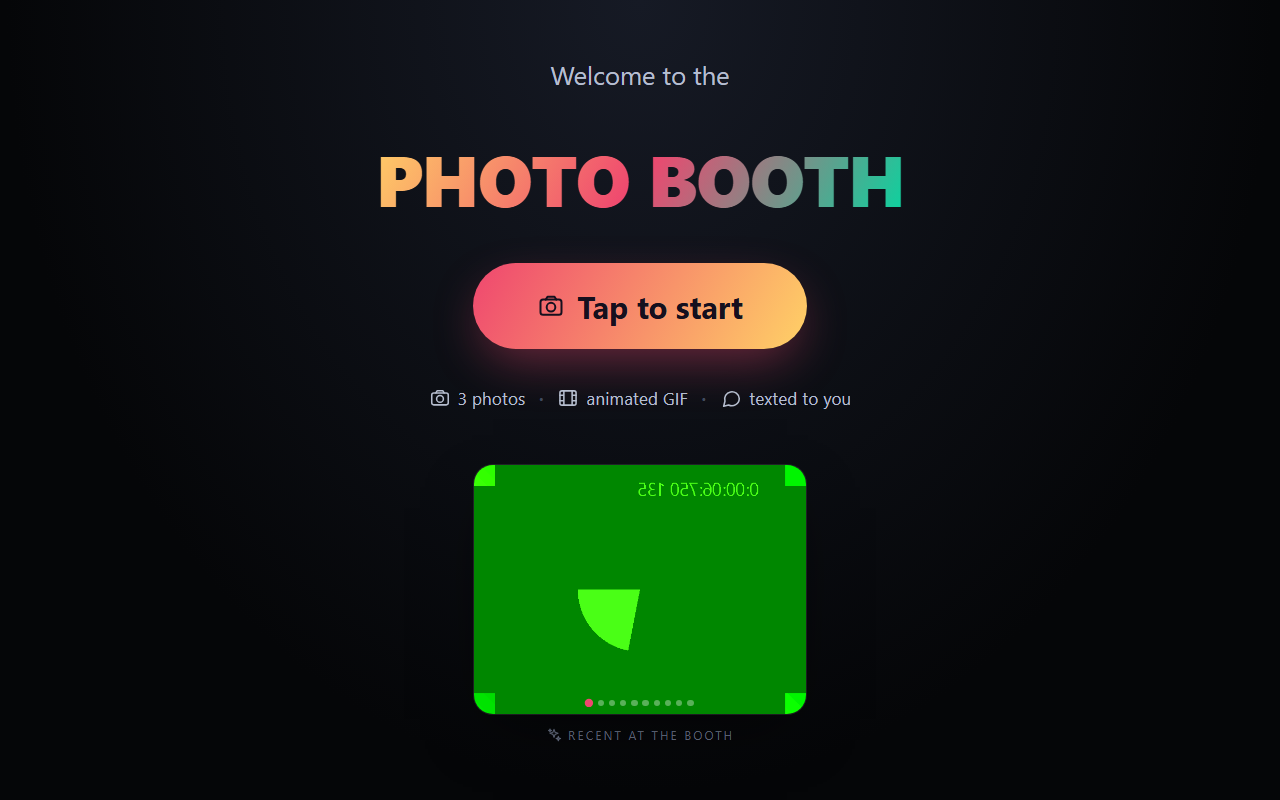
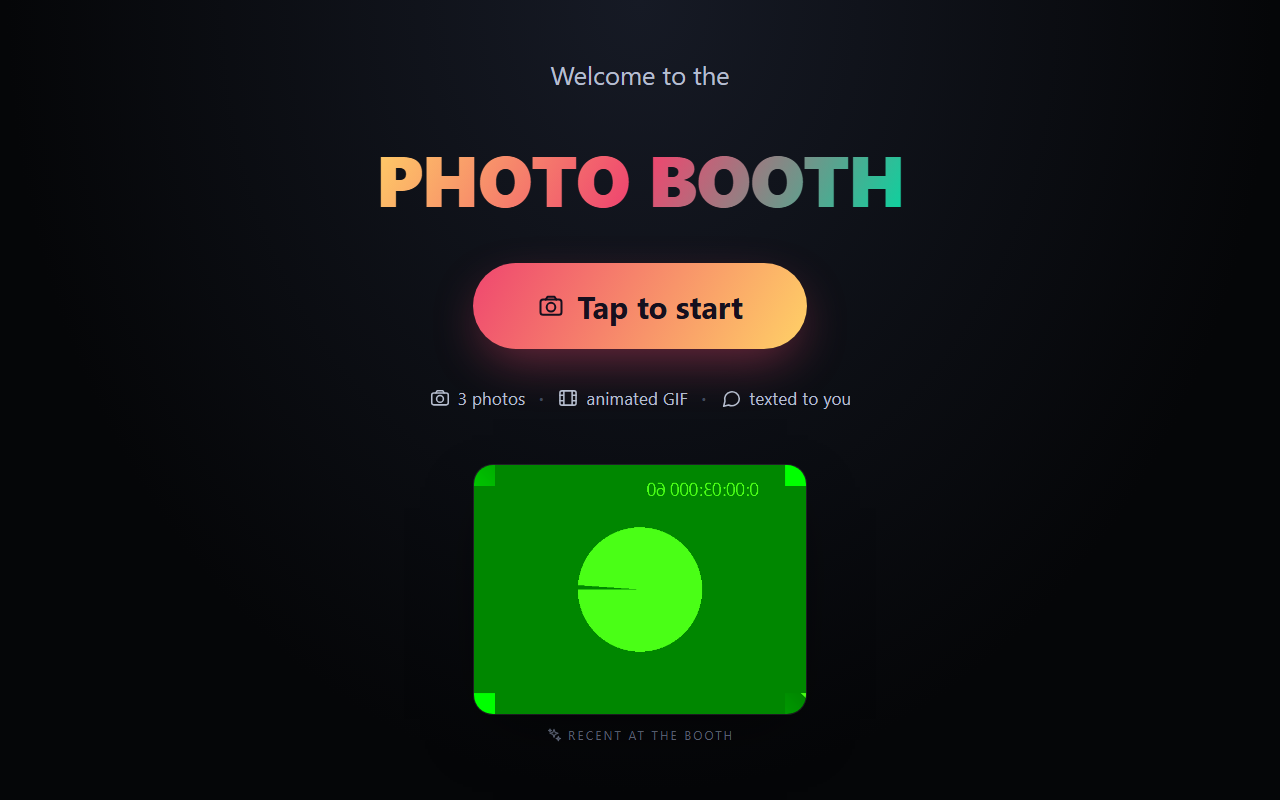
fix: stop strobing gallery + slow GIF playback to original ~3 fps
Two related issues from PR #4 review:

1. Idle gallery was rotating animated GIFs every 4.5s with hard cuts — a
   seizure risk on a public kiosk.
2. GIF playback was ~10x faster than the original photo booth.

Root cause for the speed bug: gifenc's writeFrame({ delay }) accepts
delay in **milliseconds** and divides by 10 internally to write
centiseconds into the GCE. Our encoder was pre-dividing by 10, so a
333 ms target produced 33 ms / frame (~33 fps) instead of the intended
333 ms / frame (~3 fps). With the fix, decoding shows the GCE delay
back at 33 cs = 330 ms / frame, matching the original ImageSharp-based
behavior.

Strobe fix:
- Functions stitchGif now also encodes frame[0] as a static PNG and
  uploads it as <captureId>-thumb.png alongside the GIF (best-effort;
  GIF/SMS path unaffected on thumbnail upload failure).
- thumbnailUrl threaded end-to-end: stitchGif -> /api/internal/status
  -> CaptureEntity -> /api/gallery -> Angular GalleryItemDto.
- Idle carousel now displays static PNG thumbnails instead of GIFs,
  rotates every 7s with a 700ms keyframe crossfade, respects
  prefers-reduced-motion (rotation disabled, animations cancelled),
  and filters out legacy items that lack a thumbnail.

diff --git a/apps/web/src/app/features/idle/idle.page.ts b/apps/web/src/app/features/idle/idle.page.ts
@@ -17,7 +17,10 @@ import { IconComponent } from '../../core/icons/icon.component';
 import { BoothStore } from '../../core/state/booth.store';
 
 const GALLERY_REFRESH_MS = 30_000;
-const GALLERY_ROTATE_MS = 4_500;
+// Slow rotation: 7s feels gallery-pace rather than slideshow-pace, and pairs
+// well with a half-second crossfade so transitions are imperceptible. Photo-
+// sensitive guests can also opt out via OS-level `prefers-reduced-motion`.
+const GALLERY_ROTATE_MS = 7_000;
 
 @Component({
     selector: 'pb-idle',
@@ -50,14 +53,16 @@ const GALLERY_ROTATE_MS = 4_500;
                     <div class="gallery-card">
                         <a [href]="currentLanding()" target="_blank" rel="noopener" class="gallery-link" aria-label="Open recent capture">
                             <img class="gallery-img"
-                                 [src]="currentShare()"
+                                 [src]="currentThumb()"
                                  [attr.alt]="'recent capture ' + (galleryIndex() + 1)" />
                         </a>
-                        <div class="gallery-pips">
-                            @for (item of gallery(); track item.captureId; let i = $index) {
-                                <span class="pip" [class.active]="i === galleryIndex()"></span>
-                            }
-                        </div>
+                        @if (gallery().length > 1) {
+                            <div class="gallery-pips">
+                                @for (item of gallery(); track item.captureId; let i = $index) {
+                                    <span class="pip" [class.active]="i === galleryIndex()"></span>
+                                }
+                            </div>
+                        }
                     </div>
                     <p class="gallery-caption">
                         <pb-icon name="sparkles" [size]="16" />
@@ -120,7 +125,9 @@ const GALLERY_ROTATE_MS = 4_500;
             width: clamp(14rem, 26vw, 22rem);
             aspect-ratio: 4 / 3;
             object-fit: cover;
-            transition: opacity 0.4s ease;
+            /* Half-second opacity crossfade between captures so the rotation
+               isn't a hard cut. */
+            animation: gallery-fade 700ms ease-out;
         }
         .gallery-pips {
             position: absolute;
@@ -151,9 +158,18 @@ const GALLERY_ROTATE_MS = 4_500;
             letter-spacing: 0.18em;
             font-size: 0.75rem;
         }
+        @keyframes gallery-fade {
+            from { opacity: 0; }
+            to   { opacity: 1; }
+        }
         @keyframes pulse {
             0%, 100% { transform: scale(1); box-shadow: 0 18px 50px -10px rgba(239,71,111,0.45); }
             50% { transform: scale(1.04); box-shadow: 0 28px 60px -10px rgba(239,71,111,0.6); }
+        }
+        @media (prefers-reduced-motion: reduce) {
+            .tap-btn { animation: none; }
+            .gallery-img { animation: none; }
+            .pip { transition: none; }
         }
     `],
     changeDetection: ChangeDetectionStrategy.OnPush
@@ -169,11 +185,26 @@ export class IdlePage implements OnInit, OnDestroy {
     protected readonly gallery = signal<GalleryItemDto[]>([]);
     protected readonly galleryIndex = signal(0);
 
-    protected readonly currentShare = computed(() => this.gallery()[this.galleryIndex()]?.shareUrl ?? '');
+    /**
+     * Show the static PNG thumbnail of the first frame, never the animated GIF.
+     * A carousel of looping GIFs is a strobe risk on a public kiosk; falling
+     * back to `shareUrl` here is intentional only for legacy captures stitched
+     * before thumbnails were introduced — those are filtered out below in
+     * `refreshGallery` so they never reach this code path.
+     */
+    protected readonly currentThumb = computed(
+        () => this.gallery()[this.galleryIndex()]?.thumbnailUrl
+              ?? this.gallery()[this.galleryIndex()]?.shareUrl
+              ?? ''
+    );
     protected readonly currentLanding = computed(() => this.gallery()[this.galleryIndex()]?.landingUrl ?? '');
 
     private rotateHandle?: ReturnType<typeof setInterval>;
     private refreshHandle?: ReturnType<typeof setInterval>;
+    private readonly prefersReducedMotion =
+        typeof window !== 'undefined'
+        && typeof window.matchMedia === 'function'
+        && window.matchMedia('(prefers-reduced-motion: reduce)').matches;
 
     ngOnInit(): void {
         this.store.reset();
@@ -196,10 +227,14 @@ export class IdlePage implements OnInit, OnDestroy {
 
         this.refreshGallery();
         this.refreshHandle = setInterval(() => this.refreshGallery(), GALLERY_REFRESH_MS);
-        this.rotateHandle = setInterval(() => {
-            const total = this.gallery().length;
-            if (total > 1) this.galleryIndex.update(i => (i + 1) % total);
-        }, GALLERY_ROTATE_MS);
+        // Honor `prefers-reduced-motion` — show the most-recent capture as a
+        // single static still and never advance the carousel for that visitor.
+        if (!this.prefersReducedMotion) {
+            this.rotateHandle = setInterval(() => {
+                const total = this.gallery().length;
+                if (total > 1) this.galleryIndex.update(i => (i + 1) % total);
+            }, GALLERY_ROTATE_MS);
+        }
     }
 
     ngOnDestroy(): void {
@@ -223,7 +258,10 @@ export class IdlePage implements OnInit, OnDestroy {
             .pipe(takeUntilDestroyed(this.destroyRef))
             .subscribe({
                 next: response => {
-                    const items = response.items ?? [];
+                    // Only show captures that have a static PNG thumbnail.
+                    // Legacy captures (pre-thumbnail) are silently skipped to
+                    // avoid playing animated GIFs in a rotating carousel.
+                    const items = (response.items ?? []).filter(i => !!i.thumbnailUrl);
                     this.gallery.set(items);
                     if (this.galleryIndex() >= items.length) {
                         this.galleryIndex.set(0);

diff --git a/apps/functions/src/functions/stitchGif.ts b/apps/functions/src/functions/stitchGif.ts
@@ -1,6 +1,6 @@
 import { app, InvocationContext } from "@azure/functions";
 import { BlobServiceClient } from "@azure/storage-blob";
-import { decodePng, encodeAnimatedGif, DecodedFrame } from "../gif/encoder.js";
+import { decodePng, encodePng, encodeAnimatedGif, DecodedFrame } from "../gif/encoder.js";
 import { postStatus } from "../api/statusClient.js";
 
 interface StitchMessage {
@@ -39,10 +39,18 @@ app.storageQueue("stitchGif", {
 
             // Idempotency: if the share GIF already exists, skip stitch and just postback.
             const shareBlob = share.getBlockBlobClient(`${captureId}.gif`);
+            const thumbBlob = share.getBlockBlobClient(`${captureId}-thumb.png`);
             if (await shareBlob.exists()) {
                 const shareUrl = shareBlob.url;
+                const thumbnailUrl = (await thumbBlob.exists()) ? thumbBlob.url : undefined;
                 context.log(`stitchGif: ${captureId} already stitched at ${shareUrl}, skipping`);
-                await postStatus({ captureId, state: "uploaded", shareUrl, landingUrl: landingUrlFor(captureId) }, context);
+                await postStatus({
+                    captureId,
+                    state: "uploaded",
+                    shareUrl,
+                    thumbnailUrl,
+                    landingUrl: landingUrlFor(captureId),
+                }, context);
                 return;
             }
 
@@ -63,9 +71,29 @@ app.storageQueue("stitchGif", {
                 blobHTTPHeaders: { blobContentType: "image/gif" },
             });
 
+            // Static thumbnail = first frame as a PNG. The idle-screen gallery
+            // shows these (instead of the animated GIFs) so a rotating carousel
+            // of captures isn't a strobe risk.
+            let thumbnailUrl: string | undefined;
+            try {
+                const thumbBytes = encodePng(frames[0]);
+                await thumbBlob.uploadData(thumbBytes, {
+                    blobHTTPHeaders: { blobContentType: "image/png" },
+                });
+                thumbnailUrl = thumbBlob.url;
+            } catch (thumbErr) {
+                context.warn(`stitchGif: thumbnail upload failed for ${captureId}`, thumbErr);
+            }
+
             const shareUrl = shareBlob.url;
             context.log(`stitchGif: uploaded ${shareUrl}`);
-            await postStatus({ captureId, state: "uploaded", shareUrl, landingUrl: landingUrlFor(captureId) }, context);
+            await postStatus({
+                captureId,
+                state: "uploaded",
+                shareUrl,
+                thumbnailUrl,
+                landingUrl: landingUrlFor(captureId),
+            }, context);
 
             // Best-effort cleanup of raw frames now that the share GIF is durable.
             for await (const blob of raw.listBlobsFlat({ prefix: `${captureId}/` })) {

diff --git a/apps/functions/src/gif/encoder.ts b/apps/functions/src/gif/encoder.ts
@@ -17,8 +17,25 @@ export function decodePng(buffer: Buffer): DecodedFrame {
 }
 
 /**
+ * Re-encodes an in-memory RGBA frame as a PNG buffer. Used to generate the
+ * static gallery thumbnail (a snapshot of the first capture frame) so the
+ * idle-screen carousel doesn't have to play animated GIFs.
+ */
+export function encodePng(frame: DecodedFrame): Buffer {
+    const png = new PNG({ width: frame.width, height: frame.height });
+    png.data = Buffer.from(frame.rgba.buffer, frame.rgba.byteOffset, frame.rgba.byteLength);
+    return PNG.sync.write(png);
+}
+
+/**
  * Stitches a list of RGBA frames into an animated GIF.
- * frameDelayMs is converted to GIF's centiseconds (×0.1).
+ *
+ * `frameDelayMs` is the human-readable per-frame delay. `gifenc` accepts
+ * milliseconds directly and converts to GIF's native 1/100-second units
+ * internally, so we pass `frameDelayMs` through unchanged. (We previously
+ * divided by 10 here, which double-converted the value and produced a GIF
+ * that played 10× too fast — closer to a strobe than a photo-booth
+ * stop-motion.)
  */
 export function encodeAnimatedGif(frames: DecodedFrame[], frameDelayMs: number): Uint8Array {
     if (frames.length === 0) {
@@ -33,7 +50,9 @@ export function encodeAnimatedGif(frames: DecodedFrame[], frameDelayMs: number):
     }
 
     const gif = GIFEncoder();
-    const delay = Math.max(2, Math.round(frameDelayMs / 10)); // GIF delay is in centiseconds
+    // gifenc expects ms; minimum 20ms (≈50fps cap) keeps malformed callers
+    // from producing unreadably-fast GIFs.
+    const delay = Math.max(20, Math.round(frameDelayMs));
 
     for (const frame of frames) {
         const palette = quantize(frame.rgba, 256);

diff --git a/apps/web/src/app/core/api/booth-api.types.ts b/apps/web/src/app/core/api/booth-api.types.ts
@@ -29,6 +29,7 @@ export interface CaptureStatusDto {
     captureId: string;
     state: CaptureState;
     shareUrl?: string | null;
+    thumbnailUrl?: string | null;
     landingUrl?: string | null;
     error?: string | null;
     createdAt?: string | null;
@@ -38,6 +39,7 @@ export interface CaptureStatusDto {
 export interface GalleryItemDto {
     captureId: string;
     shareUrl: string;
+    thumbnailUrl?: string | null;
     landingUrl: string;
     createdAt: string;
 }

diff --git a/apps/functions/src/api/statusClient.ts b/apps/functions/src/api/statusClient.ts
@@ -13,6 +13,7 @@ export interface StatusUpdate {
     captureId: string;
     state: CaptureState;
     shareUrl?: string;
+    thumbnailUrl?: string;
     landingUrl?: string;
     error?: string;
     providerMessageId?: string;

diff --git a/apps/api/Endpoints/InternalEndpoints.cs b/apps/api/Endpoints/InternalEndpoints.cs
@@ -41,6 +41,7 @@ public static class InternalEndpoints
                     e =>
                     {
                         if (!string.IsNullOrEmpty(update.ShareUrl)) e.ShareUrl = update.ShareUrl;
+                        if (!string.IsNullOrEmpty(update.ThumbnailUrl)) e.ThumbnailUrl = update.ThumbnailUrl;
                         if (!string.IsNullOrEmpty(update.LandingUrl)) e.LandingUrl = update.LandingUrl;
                         if (!string.IsNullOrEmpty(update.Error)) e.Error = update.Error;
                         if (!string.IsNullOrEmpty(update.ProviderMessageId)) e.ProviderMessageId = update.ProviderMessageId;
@@ -71,7 +72,7 @@ public static class InternalEndpoints
                 }
 
                 var snapshot = new CaptureStatusResponse(
-                    entity.RowKey, entity.State, entity.ShareUrl, entity.LandingUrl, entity.Error, entity.CreatedAt, entity.UpdatedAt);
+                    entity.RowKey, entity.State, entity.ShareUrl, entity.ThumbnailUrl, entity.LandingUrl, entity.Error, entity.CreatedAt, entity.UpdatedAt);
                 await hub.Clients.Group(entity.RowKey).SendAsync("status", snapshot, ct);
 
                 logger.LogInformation("Capture {CaptureId} → {State}", entity.RowKey, entity.State);

diff --git a/apps/api/Storage/CaptureRepository.cs b/apps/api/Storage/CaptureRepository.cs
@@ -35,7 +35,7 @@ public sealed class CaptureRepository(
         {
             var response = await Table.GetEntityAsync<CaptureEntity>("captures", captureId, cancellationToken: ct);
             var e = response.Value;
-            return new CaptureStatusResponse(e.RowKey, e.State, e.ShareUrl, e.LandingUrl, e.Error, e.CreatedAt, e.UpdatedAt);
+            return new CaptureStatusResponse(e.RowKey, e.State, e.ShareUrl, e.ThumbnailUrl, e.LandingUrl, e.Error, e.CreatedAt, e.UpdatedAt);
         }
         catch (RequestFailedException ex) when (ex.Status == 404)
         {
@@ -69,6 +69,7 @@ public sealed class CaptureRepository(
             .Select(e => new GalleryItem(
                 e.RowKey,
                 e.ShareUrl ?? string.Empty,
+                e.ThumbnailUrl,
                 e.LandingUrl ?? string.Empty,
                 e.CreatedAt))
             .ToList();

diff --git a/apps/api/Models/Contracts.cs b/apps/api/Models/Contracts.cs
@@ -16,6 +16,7 @@ public sealed record CaptureStatusResponse(
     string CaptureId,
     string State,
     string? ShareUrl,
+    string? ThumbnailUrl,
     string? LandingUrl,
     string? Error,
     DateTimeOffset CreatedAt,
@@ -25,6 +26,7 @@ public sealed record InternalStatusUpdate(
     string CaptureId,
     string State,
     string? ShareUrl,
+    string? ThumbnailUrl,
     string? LandingUrl,
     string? Error,
     string? ProviderMessageId);
@@ -36,6 +38,7 @@ public sealed record SmsQueueMessage(string CaptureId, string Phone, string Shar
 public sealed record GalleryItem(
     string CaptureId,
     string ShareUrl,
+    string? ThumbnailUrl,
     string LandingUrl,
     DateTimeOffset CreatedAt);
 

diff --git a/apps/api/Storage/CaptureEntity.cs b/apps/api/Storage/CaptureEntity.cs
@@ -14,6 +14,7 @@ public sealed class CaptureEntity : ITableEntity
     public string Phone { get; set; } = string.Empty;
     public int FrameCount { get; set; }
     public string? ShareUrl { get; set; }
+    public string? ThumbnailUrl { get; set; }
     public string? LandingUrl { get; set; }
     public string? Error { get; set; }
     public string? ProviderMessageId { get; set; }
